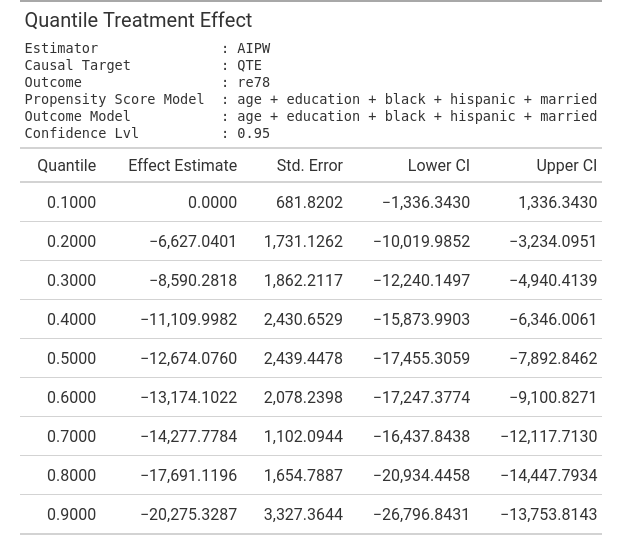
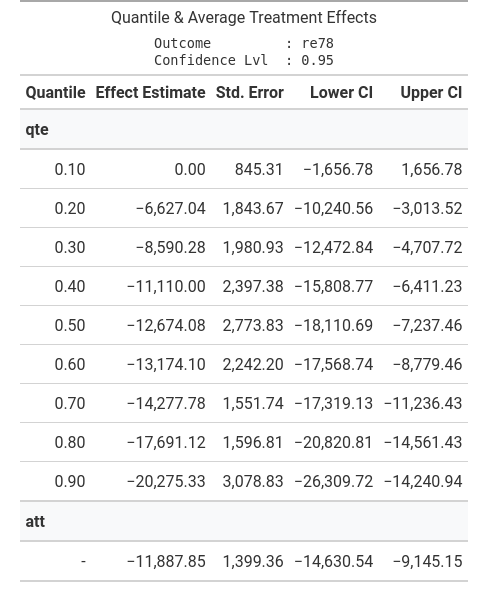
Update README and README generation.

Changed region(s): [[0.0307, 0.0, 0.9836, 0.9802]]

diff --git a/docs/readme.py b/docs/readme.py
@@ -1,0 +1,123 @@
+"""Regenerate the figures embedded in the project README.
+
+Run with ``uv run python -m docs.readme`` after changing the estimator or its
+presentation. The committed figures under ``assets/`` are what the README
+references, so this is a deliberate step rather than part of a docs build.
+"""
+
+import subprocess
+import tempfile
+from pathlib import Path
+
+import polars as pl
+
+from qte.constants import DECILES
+from qte.cross_sectional import estimate_aipw_qte
+from qte.datasets import load_lalonde, load_mpdta
+from qte.non_linear_did import estimate_changes_in_changes_for_panel
+from qte.non_linear_did.custom_types import CounterfactualModel
+from qte.results import _BasicQteResult
+
+
+def generate_readme_assets(
+    res: _BasicQteResult, model_id: str, out_dir: str | Path = "assets"
+) -> None:
+    """Save the README plot and table for a fitted result.
+
+    Parameters
+    ----------
+    res : _BasicQteResult
+        Fitted result exposing ``plot`` and ``tabulate``.
+    model_id : str
+        Stem for the artifact names. ``"aipw_qte"`` writes ``aipw_qte_results.svg``
+        and ``aipw_qte_table.png``.
+    out_dir : str or Path, optional
+        Directory to write the artifacts to.
+    """
+    out = Path(out_dir)
+    out.mkdir(parents=True, exist_ok=True)
+
+    res.plot().save(out / f"{model_id}_results.svg")
+
+    # Great Tables has no PNG export without selenium, so render its HTML in a
+    # headless Firefox and crop the surrounding whitespace with Pillow. A
+    # throwaway profile is required so an already running Firefox does not
+    # swallow the screenshot request.
+    from PIL import Image, ImageChops
+
+    html_path = (out / f"{model_id}_table.html").resolve()
+    png_path = (out / f"{model_id}_table.png").resolve()
+    html_path.write_text(res.tabulate().as_raw_html())
+
+    with tempfile.TemporaryDirectory(prefix="qte-readme-firefox-") as profile:
+        subprocess.run(
+            [
+                "firefox",
+                "--headless",
+                "--profile",
+                profile,
+                "--window-size=1200,800",
+                "--screenshot",
+                str(png_path),
+                f"file://{html_path}",
+            ],
+            check=True,
+            capture_output=True,
+        )
+
+    img = Image.open(png_path)
+    if img.mode in ("RGBA", "LA"):
+        background = Image.new(img.mode[:-1], img.size, (255, 255, 255))
+        background.paste(img, img.split()[-1])
+        img = background
+    else:
+        img = img.convert("RGB")
+    bbox = ImageChops.difference(img, Image.new("RGB", img.size, (255, 255, 255))).getbbox()
+    if bbox:
+        img = img.crop(
+            (
+                max(0, bbox[0] - 20),
+                bbox[1],
+                min(img.width, bbox[2] + 20),
+                min(img.height, bbox[3] + 20),
+            )
+        )
+        img.save(png_path)
+
+    html_path.unlink()
+
+
+def main() -> None:
+    """Estimate the README examples and regenerate their figures."""
+    ds = load_lalonde(controls_source="psid", use_panel_structure=False)
+    xf = "age + education + black + hispanic + married"
+    res = estimate_aipw_qte(
+        ds,
+        "re78",
+        "treat",
+        qs=DECILES,
+        or_x_formular=xf,
+        ps_x_formular=xf,
+        n_bootstrap_iter=50,
+    )
+    generate_readme_assets(res, "aipw_qte")
+
+    ds = load_mpdta().with_columns(
+        pl.col("first.treat").replace(0, float("inf")).alias("first.treat"),
+        pl.col("year").cast(pl.Float64).alias("year"),
+    )
+    res = estimate_changes_in_changes_for_panel(
+        ds,
+        "lemp",
+        "first.treat",
+        "year",
+        "countyreal",
+        qs=[0.25, 0.5, 0.75],
+        counterfactual_model=CounterfactualModel.CIC,
+        n_bootstrap_iter=50,
+    )
+    generate_readme_assets(res.overall, "cic")
+
+
+if __name__ == "__main__":
+    main()

diff --git a/src/qte/non_linear_did/aggregate.py b/src/qte/non_linear_did/aggregate.py
@@ -45,15 +45,11 @@ def get_weights_for_treatment_group_effects(ds: pl.DataFrame) -> WeightsLookup:
 
 def get_weights_for_event_study_effects(ds: pl.DataFrame, base_period: BasePeriod) -> WeightsLookup:
     event_study_period = pl.col("time_period") - pl.col("group")
-    return (
-        ds.filter(
-            []
-            if base_period == BasePeriod.UNIVERSAL
-            else pl.col("time_period") > pl.col("time_period").min()
-        )
-        .with_columns(weight=pl.col("weight") / pl.col("weight").sum().over(event_study_period))
-        .pipe(_weights_to_dict)
-    )
+    if base_period == BasePeriod.VARYING:
+        ds = ds.filter(pl.col("time_period") > pl.col("time_period").min())
+    return ds.with_columns(
+        weight=pl.col("weight") / pl.col("weight").sum().over(event_study_period)
+    ).pipe(_weights_to_dict)
 
 
 def _merge_group_time_effects_on_grid(

diff --git a/docs/__init__.py b/docs/__init__.py
@@ -1,0 +1,1 @@
+"""Build helpers for the project documentation."""

diff --git a/README.md b/README.md
@@ -3,7 +3,8 @@
 This is an attempt at a Python implementation of the qte R package by Brantly Callaway from [here](https://github.com/bcallaway11/qte).
 
 The main **features** are:
-  - Availability of **cross-sectional quantile treatment effects** and quantile treatment effects  on the treated estimators (simple ,IPW, outcome regression, doubly robust);
+
+- Availability of **cross-sectional quantile treatment effects** and quantile treatment effects on the treated estimators (simple, IPW, outcome regression, doubly robust);
 - **Fast**:
   - as opposed to the R-package we can use highly optimized Numpy functions for computing weighted quantiles;
   - quantile regression is magnitudes faster than in other Python packages since we use highly optimized Fortran code directly;
@@ -18,28 +19,33 @@ The main **features** are:
 
 ---
 
-# Example
+# Examples
 
- ```python
-   from qte.cross_sectional import estimate_aipw_qte
-   from qte.datasets import load_lalonde
+## Cross-Sectional Data
 
-   ds = load_lalonde()
+We can estimate quantile treatment (and average) treatment effects using an
+augmented inverse propensity score (AIPW) estimator .
 
-   res = estimate_aipw_qte(
-       ds=ds,
-       outcome_c="re78",
-       treatment_c="treat",
-       or_x_formular="age + education",
-       ps_x_formular="age + education",
-   )
 
-   print(res)  # Rich table (not shown good for console)
-   res.plot()  # Vega-Altair plot (see below)
-   res.tabulate() # Great Tables output (see below)
- ```
+```python
+from qte.cross_sectional import estimate_aipw_qte
+from qte.datasets import load_lalonde
 
-### QTE Results Plot and Table
+ds = load_lalonde()
+
+res = estimate_aipw_qte(
+    ds=ds,
+    outcome_c="re78",
+    treatment_c="treat",
+    or_x_formular="age + education",
+    ps_x_formular="age + education",
+)
+
+print(res)  # Rich table (not shown good for console)
+res.plot()  # Vega-Altair plot (see below)
+res.tabulate()  # Great Tables output (see below)
+```
+
 <table width="100%" border="0" cellpadding="0" cellspacing="0">
   <tr>
     <td width="48%" valign="top" align="center">
@@ -52,6 +58,52 @@ The main **features** are:
   </tr>
 </table>
 
+## Non-Linear Difference-in-Differences
+
+We can estimate quantile treatment (and average) treatment effects with the changes-in-changes estimator.
+
+```python
+import polars as pl
+
+from qte.non_linear_did.changes_in_changes import (
+    estimate_changes_in_changes_for_panel,
+    CounterfactualModel,
+)
+from qte.datasets import load_mpdta
+
+ds = load_mpdta().with_columns(
+    pl.col("first.treat").replace(0, float("inf")).alias("first.treat"),
+    pl.col("year").cast(pl.Float64).alias("year"),
+)
+res = estimate_changes_in_changes_for_panel(
+    ds,
+    "lemp",
+    "first.treat",
+    "year",
+    "countyreal",
+    qs=[0.25, 0.5, 0.75],
+    counterfactual_model=CounterfactualModel.CIC,
+)
+```
+
+<table width="100%" border="0" cellpadding="0" cellspacing="0">
+  <tr>
+    <td width="48%" valign="top" align="center">
+      <img src="assets/cic_results.svg" width="100%">
+    </td>
+    <td width="4%"></td>
+    <td width="48%" valign="top" align="center">
+      <img src="assets/cic_table.png" width="100%">
+    </td>
+  </tr>
+</table>
+
 ---
 
 # Development
+
+Regenerate the figures above after changing the estimators or their presentation:
+
+```sh
+uv run python -m docs.readme
+```
